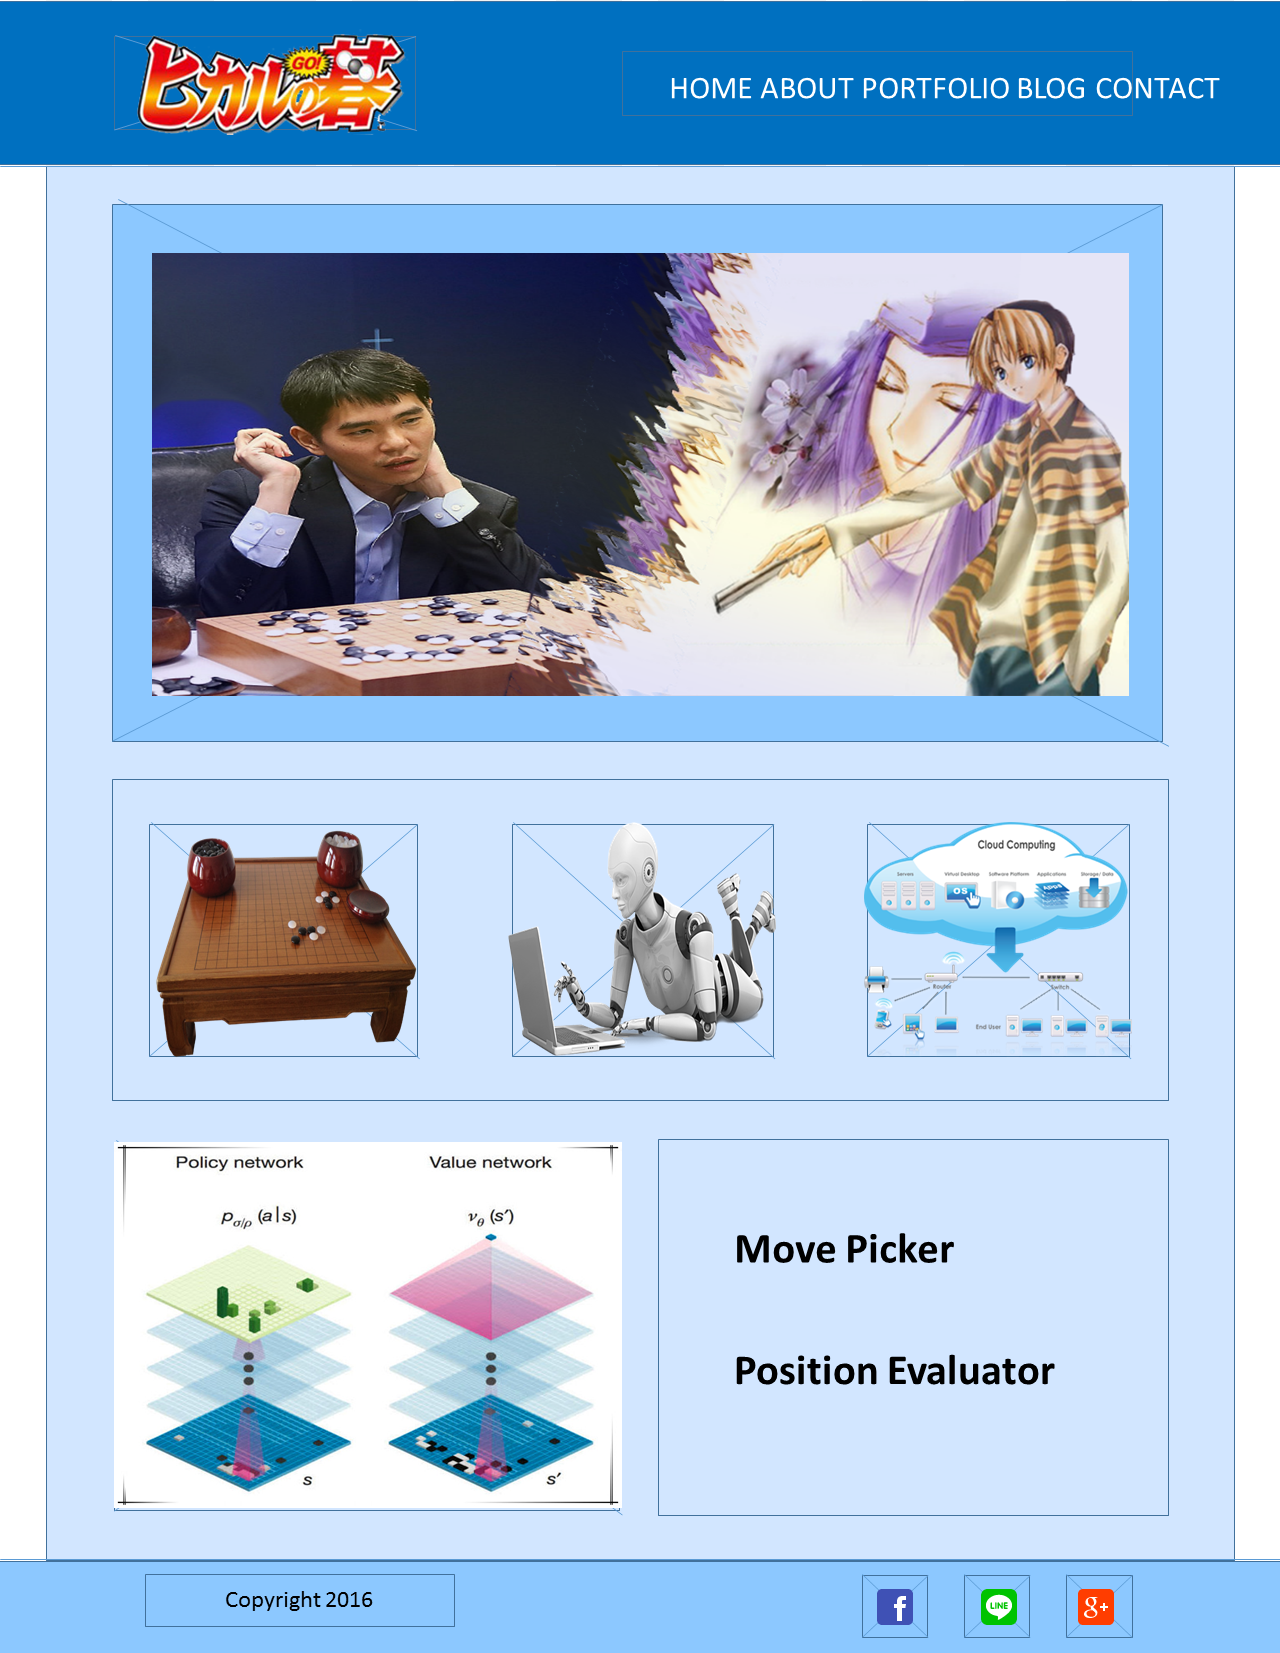
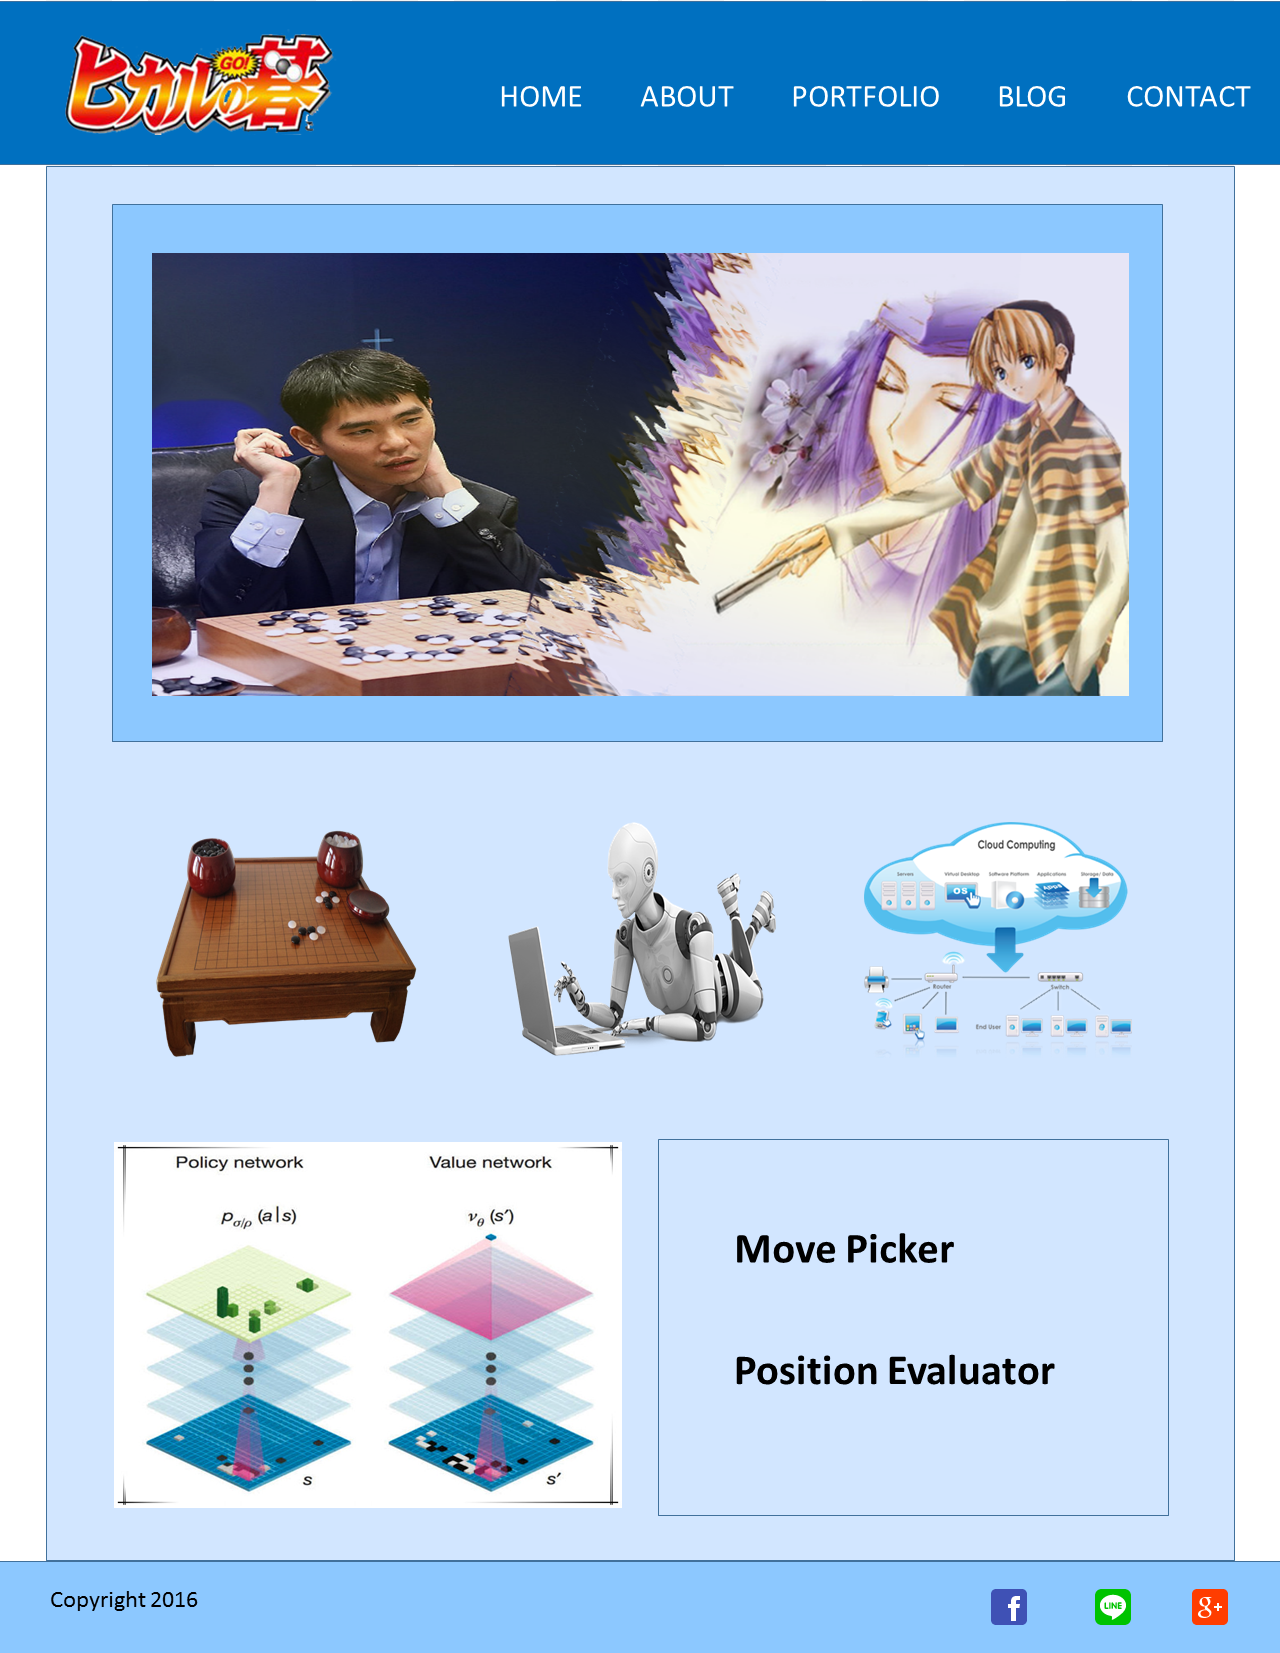
0327 fix

diff --git a/OwenHW5/css/master.css b/OwenHW5/css/master.css
@@ -55,7 +55,7 @@ header
   height: 87.1875rem;
   box-sizing: border-box;
   padding: 2.5rem 4.25rem;
-  margin: 0 3rem;
+  margin: 0rem 3rem;
   border: 0;
   display: block;
 }
@@ -115,7 +115,7 @@ header
   box-sizing: border-box;
   padding: 4.875rem;
   font-size: 2rem;
-  border: 1px solid #000000;
+  border: 0.1rem solid #8CC8FF;
   margin-left: 5rem;
   font-family: Arial;
 }
@@ -124,6 +124,12 @@ header
 {
   list-style-type: none;
   margin: 3rem 0;
+}
+
+#algorithm-content ul li:hover
+{
+  color: #D2E6FF;
+  background-color: #8CC8FF;
 }
 
 footer
@@ -151,6 +157,11 @@ footer
   margin-right: 3rem;
   display: inline-block;
   font-family: Arial;
+}
+
+#footer-right ul li:hover
+{
+  background-color: #D2E6FF;
 }
 
 .clear

diff --git a/OwenHW5/index.html b/OwenHW5/index.html
@@ -58,7 +58,7 @@
           <img src="Images/Line-icon.png" alt="" />
         </li>
         <li>
-          <img src="Images/Google+-icon.png" alt="" />
+          <img src="Images/Google-icon.png" alt="" />
         </li>
       </ul>
     </div>
